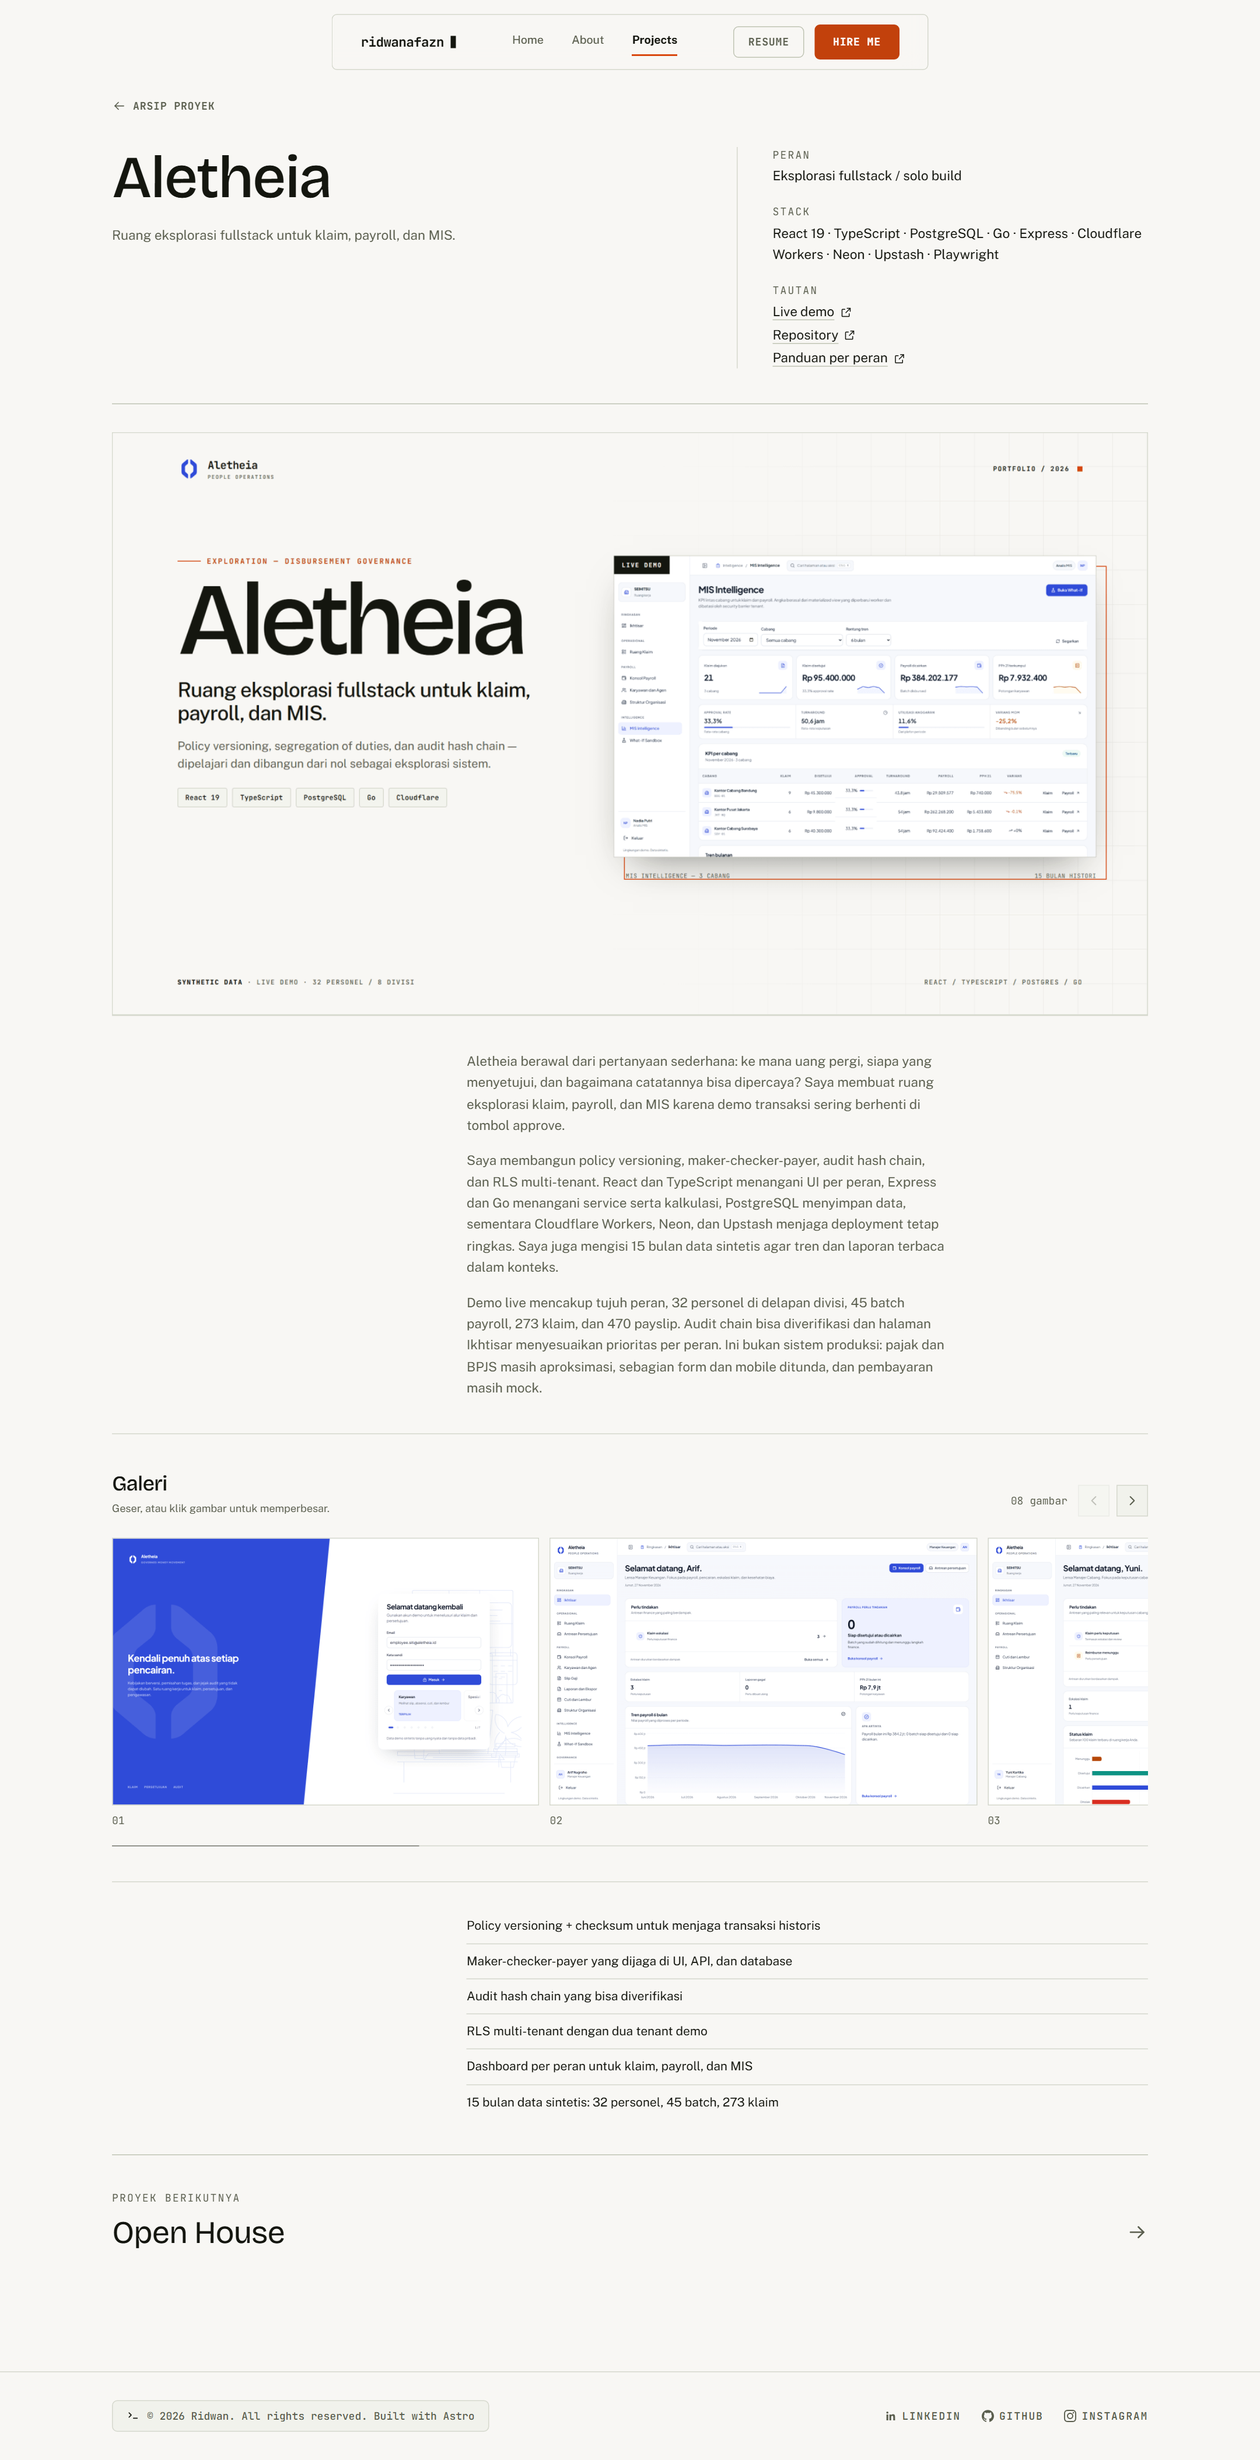
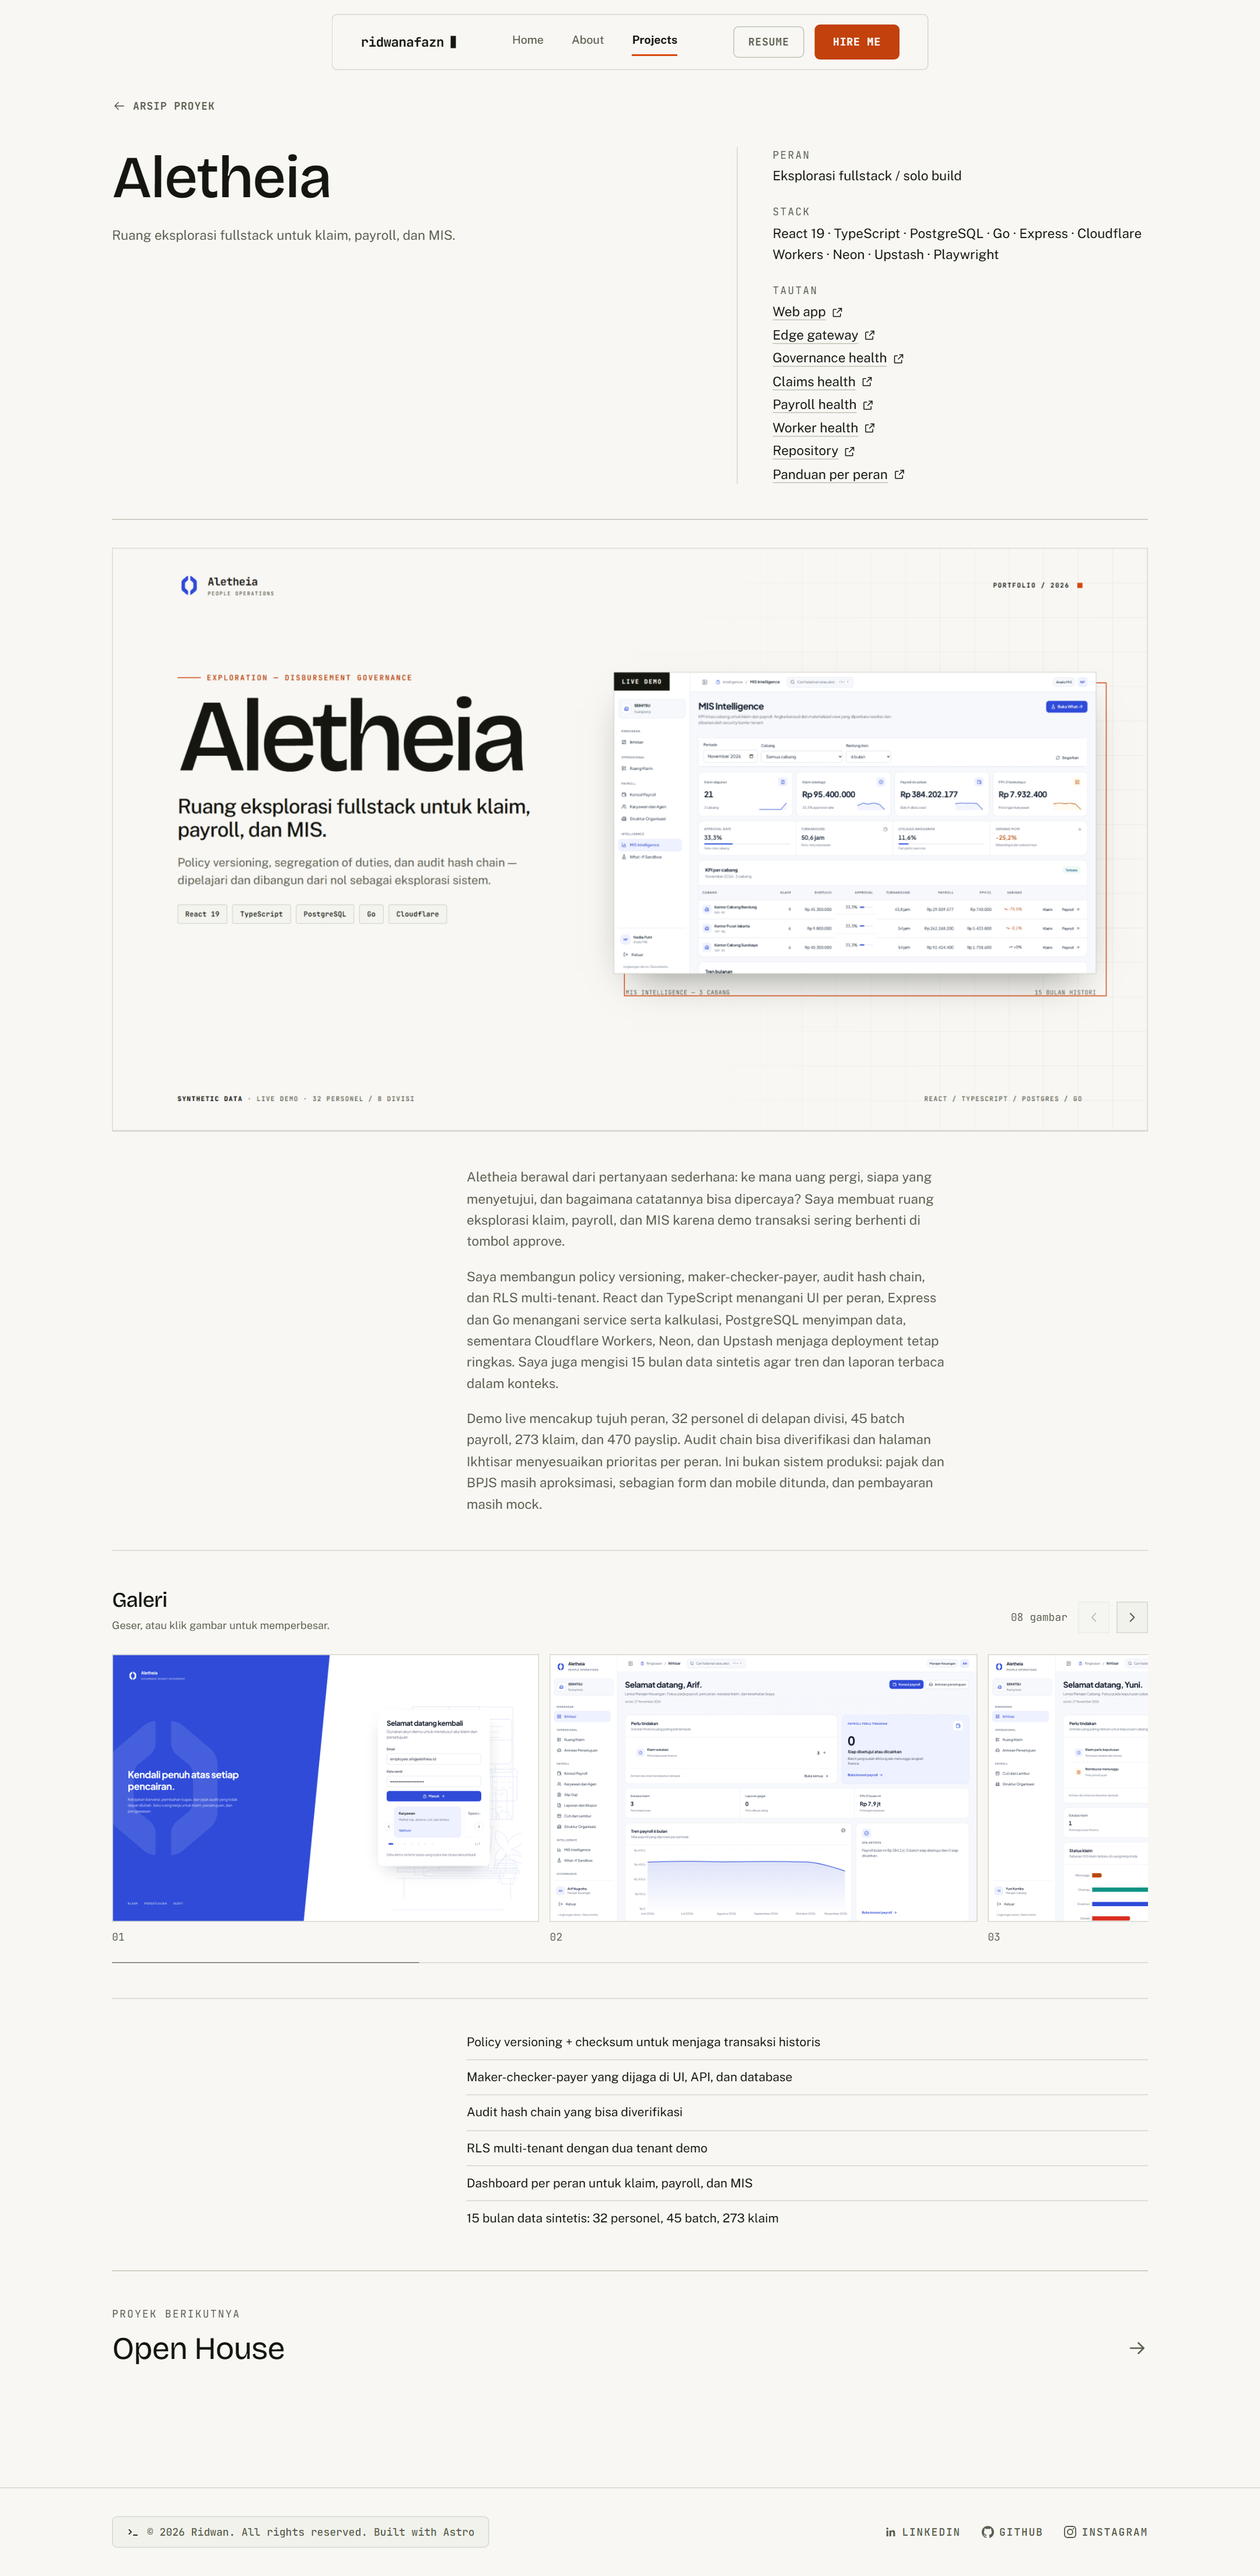
fix(demo): warm production and clarify cold-start login error
Add a 10-minute health ping workflow so Render free-tier services stay awake, surface a clearer login message while a service wakes up, and list every production endpoint on the portfolio page.

Verified web login after warm services; links and result list render on the live portfolio page.

diff --git a/apps/web/src/features/auth/LoginPage.tsx b/apps/web/src/features/auth/LoginPage.tsx
@@ -150,6 +150,13 @@ export default function LoginPage() {
     }
   };
 
+  const errorMessage =
+    error instanceof ApiError
+      ? error.status >= 500 || error.code === "ERR_INTERNAL_ERROR"
+        ? "Layanan demo sedang bangun. Tunggu beberapa detik lalu klik Masuk lagi."
+        : error.message
+      : "Periksa koneksi lalu coba lagi";
+
   return (
     <main className="login-page">
       <section className="login-brand" aria-label="Tentang Aletheia">
@@ -184,7 +191,7 @@ export default function LoginPage() {
           {error === null ? null : (
             <div className="stack--sm" style={{ marginBottom: 16 }}>
               <Banner tone="danger" title="Tidak dapat masuk">
-                {error instanceof ApiError ? error.message : "Periksa koneksi lalu coba lagi"}
+                {errorMessage}
                 {error instanceof ApiError && error.correlationId !== null ? (
                   <div className="error-state__code">{error.correlationId}</div>
                 ) : null}

diff --git a/docs/portfolio/aletheia/README.md b/docs/portfolio/aletheia/README.md
@@ -81,6 +81,21 @@ node docs/portfolio/aletheia/render-banner.mjs
 
 Script membutuhkan screenshot `gallery/07-mis-intelligence.png` dan font di `source/fonts/`.
 
+## Link production
+
+| Komponen | URL |
+| --- | --- |
+| Web app | https://aletheia-web-preview.pages.dev |
+| Edge gateway | https://aletheia-edge.ridwanafazn.workers.dev |
+| Governance health | https://aletheia-governance.onrender.com/healthz |
+| Claims health | https://aletheia-claims.onrender.com/healthz |
+| Payroll health | https://aletheia-payroll.onrender.com/healthz |
+| Worker health | https://aletheia-worker-zjnt.onrender.com/healthz |
+| Repository | https://github.com/ridwanafazn/aletheia |
+| Panduan per peran | https://github.com/ridwanafazn/aletheia/blob/main/docs/guides/README.md |
+
+Render free tier tidur saat idle. Workflow `Warm Production` berjalan tiap 10 menit untuk menjaga service tetap bangun; jika login pertama gagal, tunggu beberapa detik lalu coba lagi.
+
 ## Yang berubah di halaman
 
 | Sekarang | Ganti dengan |

diff --git a/HANDOVER.md b/HANDOVER.md
@@ -26,7 +26,7 @@ Aletheia adalah platform governance pencairan klaim dan payroll dengan:
 
 * Monitoring production berkelanjutan; Production Monitor berjalan tiap 6 jam. Sign-off M6.2 ditunda dan automation finalisasi sedang paused (1/4 run terjadwal).
 * UI Phase 3–4 (form clarity dan mobile table-to-card) ditunda dan tercatat sebagai backlog.
-* Cold start Render free tier; mitigasi `pnpm warm:production`. `pnpm deploy:check` sudah lulus; runbook ada di `docs/runbooks/m6.2-launch.md`.
+* Cold start Render free tier; mitigasi `pnpm warm:production` dan workflow `Warm Production` tiap 10 menit. `pnpm deploy:check` sudah lulus; runbook ada di `docs/runbooks/m6.2-launch.md`.
 * Performance review, CRUD organisasi dan org chart visual, serta kebijakan reimburse. Ini modul HRIS berikutnya.
 * RUM LCP/INP, exporter span edge, dan label Prometheus kardinalitas tinggi.
 * CI E2E full-stack belum menjadi job CI.

diff --git a/README.md b/README.md
@@ -179,7 +179,7 @@ Halaman login menyediakan tombol peran demo yang mengisi email dan kata sandi ot
 - Neon production: project `aletheia` (PG16, Singapore), migrasi 0000–0017, RLS aktif.
 - Upstash QStash dan Cloudinary aktif.
 
-Web production menyajikan CSP, HSTS, COOP, dan Permissions-Policy. Render free tier tidur saat idle; cold start bisa lebih dari 2 menit. Sebelum demo:
+Web production menyajikan CSP, HSTS, COOP, dan Permissions-Policy. Render free tier tidur saat idle; cold start bisa lebih dari 2 menit. Workflow **Warm Production** berjalan tiap 10 menit untuk menjaga service tetap bangun. Jika tetap cold, jalankan:
 
 ```bash
 pnpm warm:production

diff --git a/docs/portfolio/aletheia/live-update.md b/docs/portfolio/aletheia/live-update.md
@@ -15,7 +15,7 @@
 | `long_description` | Tiga paragraf, tanpa heading section dan tanpa label STAR |
 | `tech_stack` | React 19, TypeScript, PostgreSQL, Go, Express, Cloudflare Workers, Neon, Upstash, Playwright |
 | `highlights` | Enam poin hasil; heading “Hasil” dihapus dari template |
-| `links` | Live demo, Repository, Panduan per peran |
+| `links` | Delapan tautan: Web app, Edge gateway, Governance health, Claims health, Payroll health, Worker health, Repository, Panduan per peran |
 | `gallery` | Delapan aset dengan caption dan alt |
 | `seo` | Title, description, dan OG image |
 

diff --git a/docs/portfolio/aletheia/page-copy.md b/docs/portfolio/aletheia/page-copy.md
@@ -19,7 +19,7 @@
 | Fokus | Disbursement governance, payroll, MIS |
 | Status | Live demo · data sintetis |
 
-**Tombol:** `Live demo` · `Repository` · `Panduan per peran`
+**Tombol:** `Web app` · `Edge gateway` · `Governance health` · `Claims health` · `Payroll health` · `Worker health` · `Repository` · `Panduan per peran`
 
 ---
 
